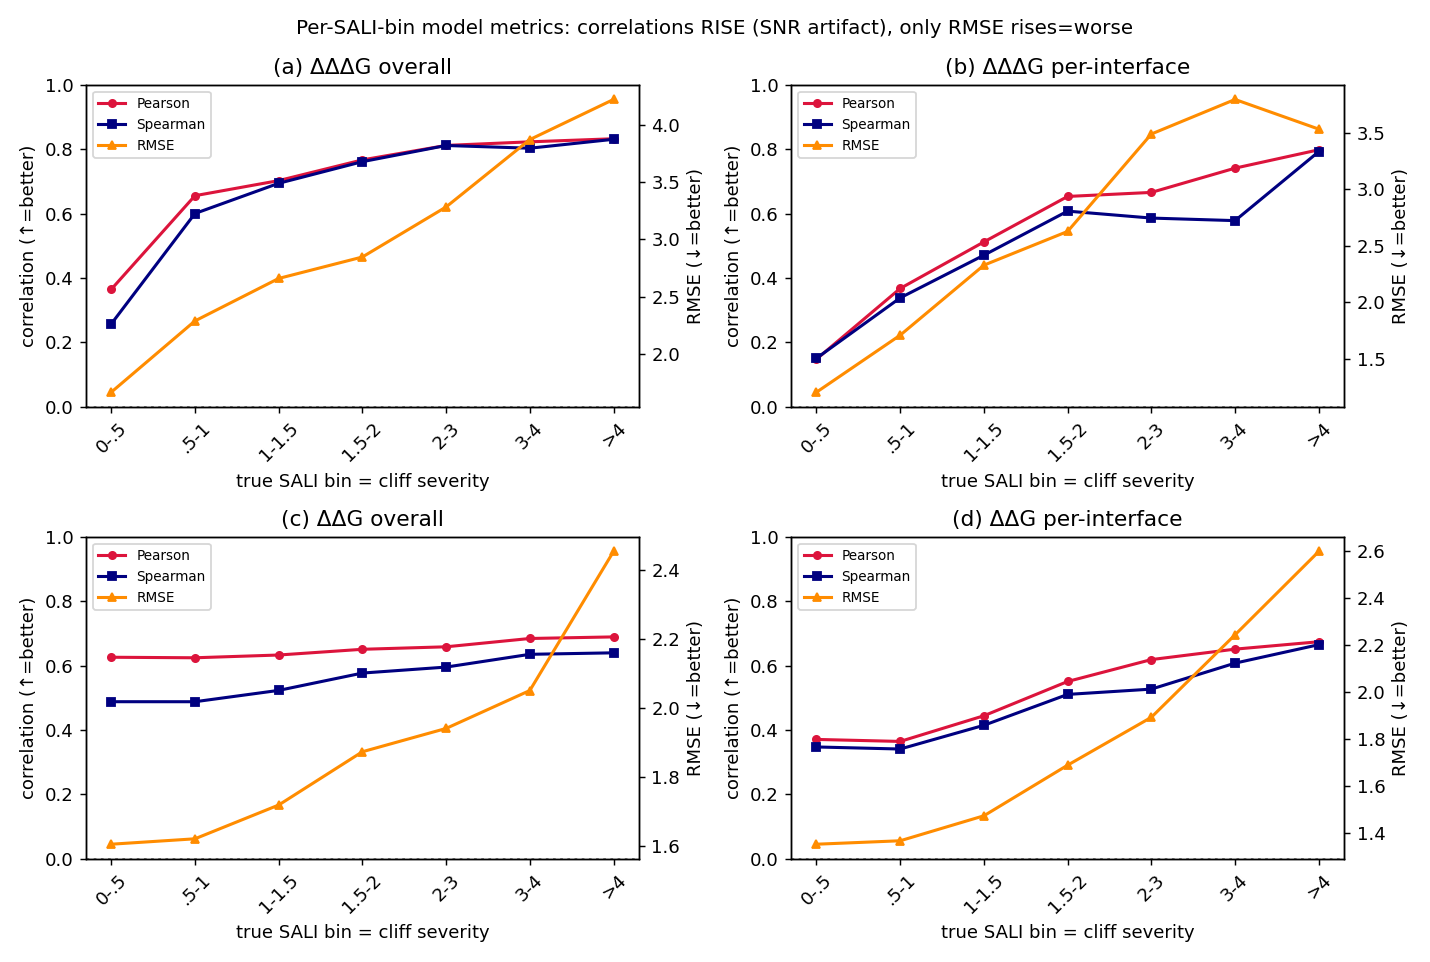
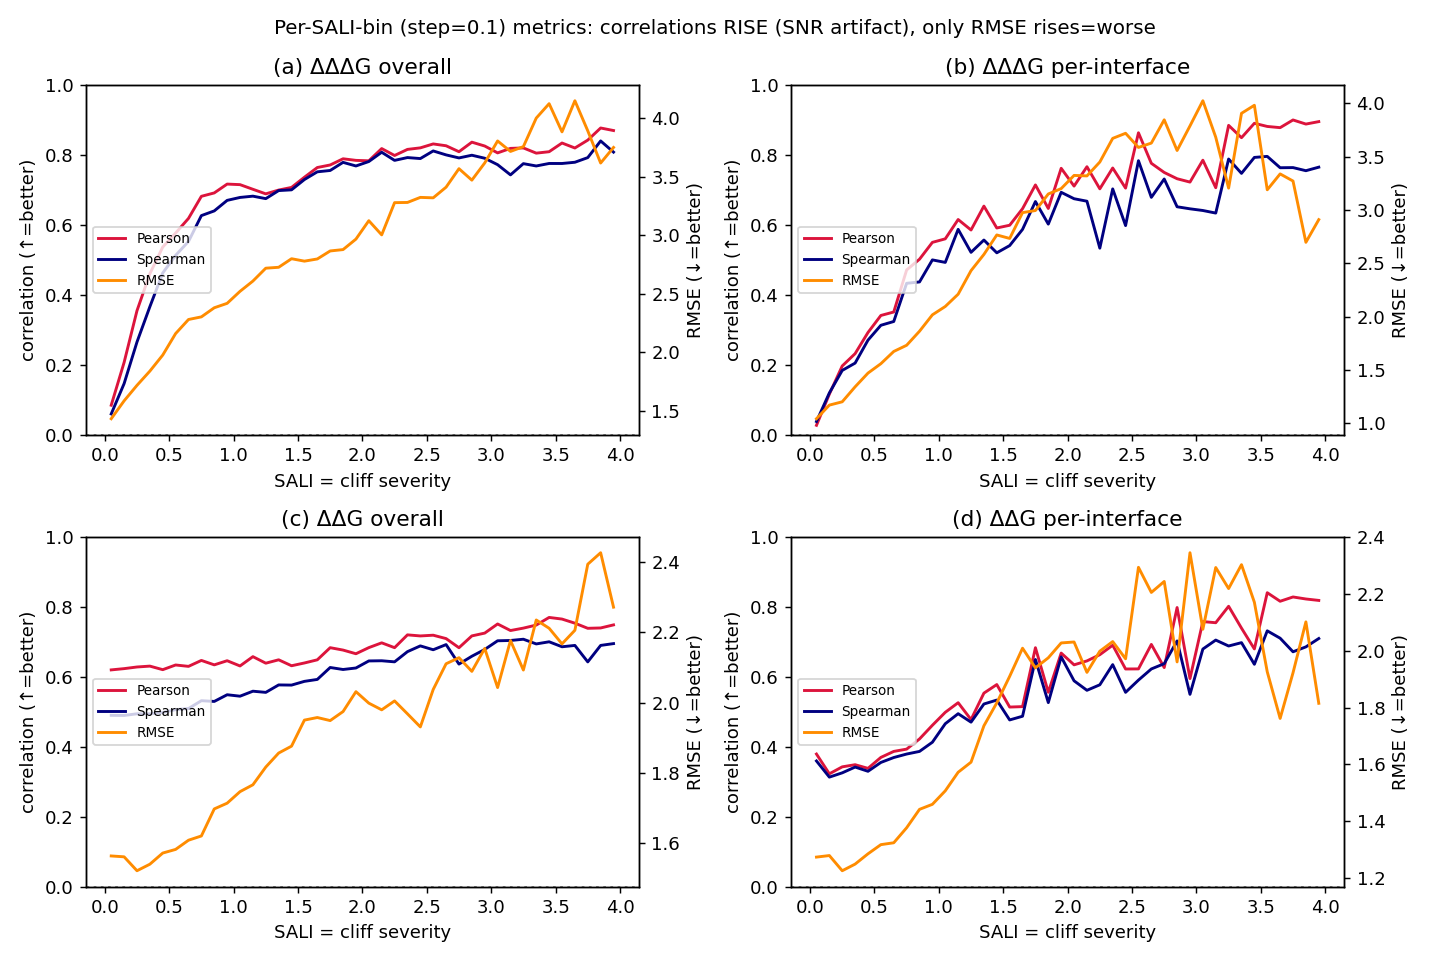
mutation-cliff §4.1: finer SALI bins (step 0.1); (i) split into mean + median flatten figures; metrics grid now fine-grained

diff --git a/reproduce/mutation_cliff_viz.py b/reproduce/mutation_cliff_viz.py
@@ -125,33 +125,15 @@ for d in DS:
 print("ALL:",{k:(round(v,3) if k!='n' else int(v)) for k,v in block(P.SALI).items()})
 print(f"corr(d, SALI): Pearson={pearsonr(P.d,P.SALI)[0]:.3f} Spearman={spearmanr(P.d,P.SALI)[0]:.3f}")
 
-# ======================= §4 按 SALI(cliff 严重度)分桶 =======================
-sedges=[0,0.5,1,1.5,2,3,4,1e9]
-slab=["0-.5",".5-1","1-1.5","1.5-2","2-3","3-4",">4"]
-P["sbin"]=pd.cut(P.SALI,sedges,labels=slab,right=False)
-xs=np.arange(len(slab))
-
-# ---- §4 fig1:真值 vs 预测 |ΔΔΔG| 的 mean(flatten)----
-m_true=[P[P.sbin==L].absT.mean() for L in slab]
-m_pred=[P[P.sbin==L].absP.mean() for L in slab]
-print("\n=== §4 fig1: 真值 vs 预测 |ΔΔΔG| mean ===")
-for L,t,p in zip(slab,m_true,m_pred): print(f"  {L}: true {t:.2f} pred {p:.2f}")
-w=0.4
-fig,ax=plt.subplots(figsize=(6.0,3.9))
-ax.bar(xs-w/2,m_true,w,color="indianred",label="true |ΔΔΔG| (mean)")
-ax.bar(xs+w/2,m_pred,w,color="steelblue",label="predicted |ΔΔΔG| (mean)")
-ax.set_xticks(xs); ax.set_xticklabels(slab,rotation=45)
-ax.set_xlabel("true SALI bin = cliff severity"); ax.set_ylabel("|ΔΔΔG| (mean, kcal/mol)")
-ax.set_title("As cliff severity grows, predicted effect lags true (flatten)"); ax.legend(fontsize=8)
-fig.tight_layout(); fig.savefig(os.path.join(OUT,"adit_cliff_flatten.png")); plt.close(fig)
-
-# ---- §4 fig2:12 个模型指标(a/b/c/d × Pearson/Spearman/RMSE)----
+# ======================= §4 按 SALI 细分桶(step=0.1)=======================
 def rmse(x,y): return float(np.sqrt(np.mean((np.asarray(x)-np.asarray(y))**2)))
 def safe(f,x,y):
     x,y=np.asarray(x),np.asarray(y)
     if len(x)<3 or np.std(x)==0 or np.std(y)==0: return np.nan
     return f(x,y)[0]
-KP=10
+KP=10            # per-interface: 每个 complex 至少 KP 个样本
+MINN=40          # 每个 fine bin 至少 MINN 对才计点
+MINIF=3          # per-interface: 至少 MINIF 个合格 complex 才计点
 def perif(d,gcol,xc,yc):
     pe,sp,rm=[],[],[]
     for _,gg in d.groupby(gcol):
@@ -159,35 +141,53 @@ def perif(d,gcol,xc,yc):
         pe.append(safe(pearsonr,gg[xc].values,gg[yc].values))
         sp.append(safe(spearmanr,gg[xc].values,gg[yc].values))
         rm.append(rmse(gg[xc],gg[yc]))
-    f=lambda v:np.nanmean(v) if len(v) else np.nan
-    return f(pe),f(sp),f(rm),sum(~np.isnan(pe)) if pe else 0
+    n=sum(~np.isnan(pe)) if pe else 0
+    f=lambda v:(np.nanmean(v) if n>=MINIF else np.nan)
+    return f(pe),f(sp),f(rm),n
 
-res={k:{m:[] for m in ["P","S","R"]} for k in "abcd"}
-nif={"b":[],"d":[]}
-print("\n=== §4 fig2: 12 指标 by SALI 桶 ===")
-for L in slab:
-    q=P[P.sbin==L]
-    res["a"]["P"].append(safe(pearsonr,q.true_jump,q.pred_jump)); res["a"]["S"].append(safe(spearmanr,q.true_jump,q.pred_jump)); res["a"]["R"].append(rmse(q.true_jump,q.pred_jump))
-    bp,bs,br,bn=perif(q,"PDB","true_jump","pred_jump"); res["b"]["P"].append(bp); res["b"]["S"].append(bs); res["b"]["R"].append(br); nif["b"].append(bn)
+BW=0.1; TOP=4.0
+fedges=np.round(np.arange(0,TOP+1e-9,BW),2); ctr=fedges[:-1]+BW/2
+P["fb"]=pd.cut(P.SALI,fedges,labels=False,right=False)
+groups={int(k):v for k,v in P.dropna(subset=["fb"]).groupby("fb")}
+n=len(ctr)
+mt=np.full(n,np.nan); mp=np.full(n,np.nan); mdt=np.full(n,np.nan); mdp=np.full(n,np.nan)
+res={k:{m:np.full(n,np.nan) for m in "PSR"} for k in "abcd"}
+for i in range(n):
+    q=groups.get(i)
+    if q is None or len(q)<MINN: continue
+    mt[i]=q.absT.mean(); mp[i]=q.absP.mean(); mdt[i]=q.absT.median(); mdp[i]=q.absP.median()
+    res["a"]["P"][i]=safe(pearsonr,q.true_jump,q.pred_jump); res["a"]["S"][i]=safe(spearmanr,q.true_jump,q.pred_jump); res["a"]["R"][i]=rmse(q.true_jump,q.pred_jump)
+    bP,bS,bR,_=perif(q,"PDB","true_jump","pred_jump"); res["b"]["P"][i]=bP; res["b"]["S"][i]=bS; res["b"]["R"][i]=bR
     ids=pd.unique(pd.concat([q.iA,q.iB])); M=agg.loc[ids,["Name","ddG","ddG_pred"]]
-    res["c"]["P"].append(safe(pearsonr,M.ddG,M.ddG_pred)); res["c"]["S"].append(safe(spearmanr,M.ddG,M.ddG_pred)); res["c"]["R"].append(rmse(M.ddG,M.ddG_pred))
-    dp,ds,dr,dn=perif(M,"Name","ddG","ddG_pred"); res["d"]["P"].append(dp); res["d"]["S"].append(ds); res["d"]["R"].append(dr); nif["d"].append(dn)
-    print(f"  {L}: a {res['a']['P'][-1]:.2f}/{res['a']['S'][-1]:.2f}/{res['a']['R'][-1]:.2f} | "
-          f"b {bp:.2f}/{bs:.2f}/{br:.2f} | c {res['c']['P'][-1]:.2f}/{res['c']['S'][-1]:.2f}/{res['c']['R'][-1]:.2f} | d {dp:.2f}/{ds:.2f}/{dr:.2f}")
+    res["c"]["P"][i]=safe(pearsonr,M.ddG,M.ddG_pred); res["c"]["S"][i]=safe(spearmanr,M.ddG,M.ddG_pred); res["c"]["R"][i]=rmse(M.ddG,M.ddG_pred)
+    dP,dS,dR,_=perif(M,"Name","ddG","ddG_pred"); res["d"]["P"][i]=dP; res["d"]["S"][i]=dS; res["d"]["R"][i]=dR
+nval={k:int(np.sum(~np.isnan(res[k]["P"]))) for k in "abcd"}
+print(f"\n=== §4 fine bins: {n} 个(step={BW}, 0–{TOP}) | 有效点 a/b/c/d = {nval} ===")
+for i in range(0,n,5):
+    print(f"  SALI~{ctr[i]:.2f}: true {mt[i]:.2f}/pred {mp[i]:.2f} | a-RMSE {res['a']['R'][i]:.2f} c-RMSE {res['c']['R'][i]:.2f} d-RMSE {res['d']['R'][i]:.2f}")
 
+# ---- §4 (i):flatten,mean 与 median 两张图 ----
+for tag,vt,vp in [("mean",mt,mp),("median",mdt,mdp)]:
+    fig,ax=plt.subplots(figsize=(5.8,3.8))
+    ax.plot(ctr,vt,c="indianred",lw=1.9,label=f"true |ΔΔΔG| ({tag})")
+    ax.plot(ctr,vp,c="steelblue",lw=1.9,label=f"predicted |ΔΔΔG| ({tag})")
+    ax.fill_between(ctr,vp,vt,where=~np.isnan(vt),color="orange",alpha=0.15)
+    ax.set_xlabel("SALI = cliff severity (|ΔΔΔG|/d)"); ax.set_ylabel(f"|ΔΔΔG| ({tag}, kcal/mol)")
+    ax.set_title(f"(i-{tag}) predicted effect flattens as cliff grows"); ax.legend(fontsize=8)
+    fig.tight_layout(); fig.savefig(os.path.join(OUT,f"adit_cliff_flatten_{tag}.png")); plt.close(fig)
+
+# ---- §4 (ii):12 指标(a/b/c/d × P/S/RMSE),fine bins ----
 titles={"a":"(a) ΔΔΔG overall","b":"(b) ΔΔΔG per-interface","c":"(c) ΔΔG overall","d":"(d) ΔΔG per-interface"}
 fig,axes=plt.subplots(2,2,figsize=(11,7.4))
 for ax,k in zip(axes.flat,"abcd"):
-    ax.plot(xs,res[k]["P"],"-o",c="crimson",lw=1.7,ms=4,label="Pearson")
-    ax.plot(xs,res[k]["S"],"-s",c="navy",lw=1.7,ms=4,label="Spearman")
-    ax.set_ylim(0,1); ax.set_xticks(xs); ax.set_xticklabels(slab,rotation=45)
-    ax.set_ylabel("correlation (↑=better)"); ax.set_title(titles[k]); ax.axhline(0,ls=":",c="grey")
-    axr=ax.twinx(); axr.plot(xs,res[k]["R"],"-^",c="darkorange",lw=1.7,ms=4,label="RMSE")
-    axr.set_ylabel("RMSE (↓=better)")
+    ax.plot(ctr,res[k]["P"],"-",c="crimson",lw=1.6,label="Pearson")
+    ax.plot(ctr,res[k]["S"],"-",c="navy",lw=1.6,label="Spearman")
+    ax.set_ylim(0,1); ax.set_ylabel("correlation (↑=better)"); ax.set_title(titles[k]); ax.axhline(0,ls=":",c="grey")
+    axr=ax.twinx(); axr.plot(ctr,res[k]["R"],"-",c="darkorange",lw=1.6,label="RMSE"); axr.set_ylabel("RMSE (↓=better)")
     h1,l1=ax.get_legend_handles_labels(); h2,l2=axr.get_legend_handles_labels()
-    ax.legend(h1+h2,l1+l2,fontsize=7.5,loc="upper left")
-    ax.set_xlabel("true SALI bin = cliff severity")
-fig.suptitle("Per-SALI-bin model metrics: correlations RISE (SNR artifact), only RMSE rises=worse",fontsize=11)
+    ax.legend(h1+h2,l1+l2,fontsize=7.5,loc="center left")
+    ax.set_xlabel("SALI = cliff severity")
+fig.suptitle("Per-SALI-bin (step=0.1) metrics: correlations RISE (SNR artifact), only RMSE rises=worse",fontsize=11)
 fig.tight_layout(); fig.savefig(os.path.join(OUT,"adit_cliff_metrics.png")); plt.close(fig)
 
 # ======================= 表:diff_percent =======================

diff --git a/reproduce/RESEARCH_MOTIVATION_mutation_cliff.md b/reproduce/RESEARCH_MOTIVATION_mutation_cliff.md
@@ -77,20 +77,24 @@
 ### 4.1 随着 mutation cliff 程度增加,模型效果逐渐下降
 按 cliff 指数 SALI 分桶(0–4 细分 + >4),桶号越大 = cliff 越陡。
 
-**(i) 幅度 flatten:真值 effect 一路爬升,预测 effect 跟不上**
-<img src="mutation_analysis/adit_cliff_flatten.png" width="500">
+**(i) 幅度 flatten:真值 effect 一路爬升,预测 effect 跟不上**(SALI 细分桶,step=0.1,0–4)
+<table><tr>
+<td><img src="mutation_analysis/adit_cliff_flatten_mean.png" width="420"></td>
+<td><img src="mutation_analysis/adit_cliff_flatten_median.png" width="420"></td>
+</tr></table>
 
-| 真值 SALI 桶(cliff 严重度) | n | 真值 \|ΔΔΔG\| mean | 预测 \|ΔΔΔG\| mean |
-|---|---|---|---|
-| 0–0.5 | 146,700 | 0.79 | 1.13 |
-| 0.5–1 | 60,651 | 2.43 | 1.72 |
-| 1–1.5 | 30,467 | 3.36 | 2.01 |
-| 1.5–2 | 15,801 | 4.16 | 2.61 |
-| 2–3 | 12,920 | 5.27 | 3.04 |
-| 3–4 | 2,982 | 6.44 | 3.79 |
-| >4 | 1,087 | 7.12 | 4.38 |
+| 真值 SALI 桶(cliff 严重度) | n | 真值 mean | 预测 mean | 真值 median | 预测 median |
+|---|---|---|---|---|---|
+| 0–0.5 | 146,700 | 0.79 | 1.13 | 0.53 | 0.71 |
+| 0.5–1 | 60,651 | 2.43 | 1.72 | 1.82 | 1.10 |
+| 1–1.5 | 30,467 | 3.36 | 2.01 | 2.81 | 1.41 |
+| 1.5–2 | 15,801 | 4.16 | 2.61 | 3.64 | 1.98 |
+| 2–3 | 12,920 | 5.27 | 3.04 | 4.92 | 2.51 |
+| 3–4 | 2,982 | 6.44 | 3.79 | 6.51 | 3.35 |
+| >4 | 1,087 | 7.12 | 4.38 | 8.01 | 4.16 |
 
-→ cliff 越陡,真值 effect climb 到 7.1,但**预测 effect 被压在低位(到 4.4 就上不去)**,两柱差距越拉越大——模型把悬崖"抹平"。
+→ cliff 越陡,真值 effect 爬到 7+,但**预测 effect 被压在低位(到 ~4 就上不去)**,真值与预测的差距越拉越大——模型把悬崖"抹平"。
+mean 与 median 两条曲线趋势一致(median 在高 SALI 区差距更夸张:真值 8.0 vs 预测 4.2),说明 flatten 不是少数离群点造成的。
 
 **(ii) 按 SALI 分桶的 12 个模型指标:哪个能反映"cliff 越严重越差"?**
 对每个 SALI 桶分别算 (a) ΔΔΔG overall、(b) ΔΔΔG per-interface、(c) ΔΔG overall、(d) ΔΔG per-interface 的
@@ -137,6 +141,6 @@
 ## 5. 产物
 - 数据:`skempi_per_sample_pred.csv`、`skempi_mutation_cliff_pairs.csv`、`skempi_same_site_groups.csv`、
   `skempi_cliff_pairs_SALI_top2000.csv`;**全配对表 `mutation_analysis/sali_pairs_table.csv`(270,608 行)**。
-- 图(`mutation_analysis/`):`ecdf_sali_combined.png`/`ecdf_sali_by_d.png`(Evidence 1)、`qmean_sali_combined.png`/`qmean_sali_by_d.png`(Evidence 2)、`pointcloud_sali_by_d.png`(Evidence 3)、`adit_cliff_flatten.png`(§4.1-i)、`adit_cliff_metrics.png`(§4.1-ii)。
+- 图(`mutation_analysis/`):`ecdf_sali_combined.png`/`ecdf_sali_by_d.png`(Evidence 1)、`qmean_sali_combined.png`/`qmean_sali_by_d.png`(Evidence 2)、`pointcloud_sali_by_d.png`(Evidence 3)、`adit_cliff_flatten_mean.png`/`adit_cliff_flatten_median.png`(§4.1-i)、`adit_cliff_metrics.png`(§4.1-ii)。
 - 图(根目录,早期版本/旁证):`fig_cliff_vs_noise.png`、`fig_jump_true_vs_pred.png`、`fig_jump_saturation.png`、`fig_absT_by_distance.png`。
 - 脚本:`mutation_cliff_analysis.py`、`mutation_cliff_extended.py`、`mutation_cliff_viz.py`。
